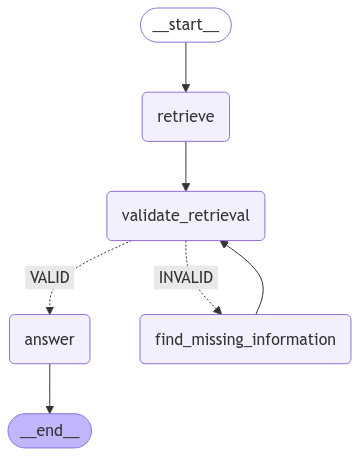
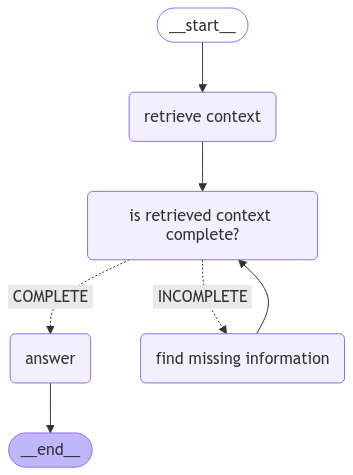
diagram update

diff --git a/src/agent.py b/src/agent.py
@@ -49,7 +49,7 @@ class QAAgent:
         print("\nValidation Results:")
         print("-------------------")
         print("Decision:", router_decision)
-        if router_decision == "INVALID":
+        if router_decision == "INCOMPLETE":
             print("Missing Information:", missing_information)
 
         return {"router_decision": router_decision, "retrieved_context": retrieved_context, "useful_information": useful_information, "missing_information": missing_information, "reasoning": reasoning}
@@ -84,23 +84,23 @@ class QAAgent:
     def create_workflow(self):
         workflow = StateGraph(GraphState)
         
-        workflow.add_node("retrieve", self.retrieve)
-        workflow.add_node("validate_retrieval", self.validate_retrieval)
+        workflow.add_node("retrieve context", self.retrieve)
+        workflow.add_node("is retrieved context complete?", self.validate_retrieval)
         workflow.add_node("answer", self.answer)
-        workflow.add_node("find_missing_information", self.find_missing_information)
+        workflow.add_node("find missing information", self.find_missing_information)
         
-        workflow.set_entry_point("retrieve")
-        workflow.add_edge("retrieve", "validate_retrieval")
+        workflow.set_entry_point("retrieve context")
+        workflow.add_edge("retrieve context", "is retrieved context complete?")
         
         workflow.add_conditional_edges(
-            "validate_retrieval",
+            "is retrieved context complete?",
             self.decide_route,
             {
-                "VALID": "answer",
-                "INVALID": "find_missing_information"
+                "COMPLETE": "answer",
+                "INCOMPLETE": "find missing information"
             }
         )
-        workflow.add_edge("find_missing_information", "validate_retrieval")
+        workflow.add_edge("find missing information", "is retrieved context complete?")
     
         workflow.add_edge("answer", END)
         compiled_graph = workflow.compile()

diff --git a/src/prompts.py b/src/prompts.py
@@ -8,7 +8,7 @@ class Prompts:
         You will be provided with a question and chunks of text that may or may not contain the answer to the question.
         Your role is to carefullylook through the chunks of text provide a JSON response with three fields:
         1. status: whether the retrieved chunks contain the answer to the question.
-        - 'VALID' if the retrieved chunks contain the answer to the question, 'INVALID' otherwise. Nothing else.
+        - 'COMPLETE' if the retrieved chunks contain the answer to the question, 'INCOMPLETE' otherwise. Nothing else.
         
         2. useful_information: the useful information from the retrieved chunks. Be concise and direct.
         - if there is no useful information, set this to an empty string.
@@ -24,7 +24,7 @@ class Prompts:
         
         Here is an example of the response format:
         
-        {{"status": "VALID",
+        {{"status": "COMPLETE",
         "useful_information": "The capital city of Canada is Ottawa.",
         "missing_information": "The capital city of Mexico"}}
     
